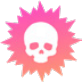
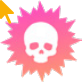
Tweak to cursor to include an exact pointer to make it easier to see

Changed region(s): [[0.0, 0.0, 0.1707, 0.2927]]

diff --git a/css/central.css b/css/central.css
@@ -279,10 +279,10 @@ menu {
 }
 
 .target-mode-section-injurePerson {
-  cursor: url('../images/cursors/cursor-injure.png'), crosshair;
+  cursor: url('../images/cursors/cursor-injure.png') 0 0, crosshair;
 }
 .target-mode-section-restoreCard {
-  cursor: url('../images/cursors/cursor-restore.png'), crosshair;
+  cursor: url('../images/cursors/cursor-restore.png') 0 0, crosshair;
   box-shadow: 0 0 50px var(--success) inset;
 }
 
